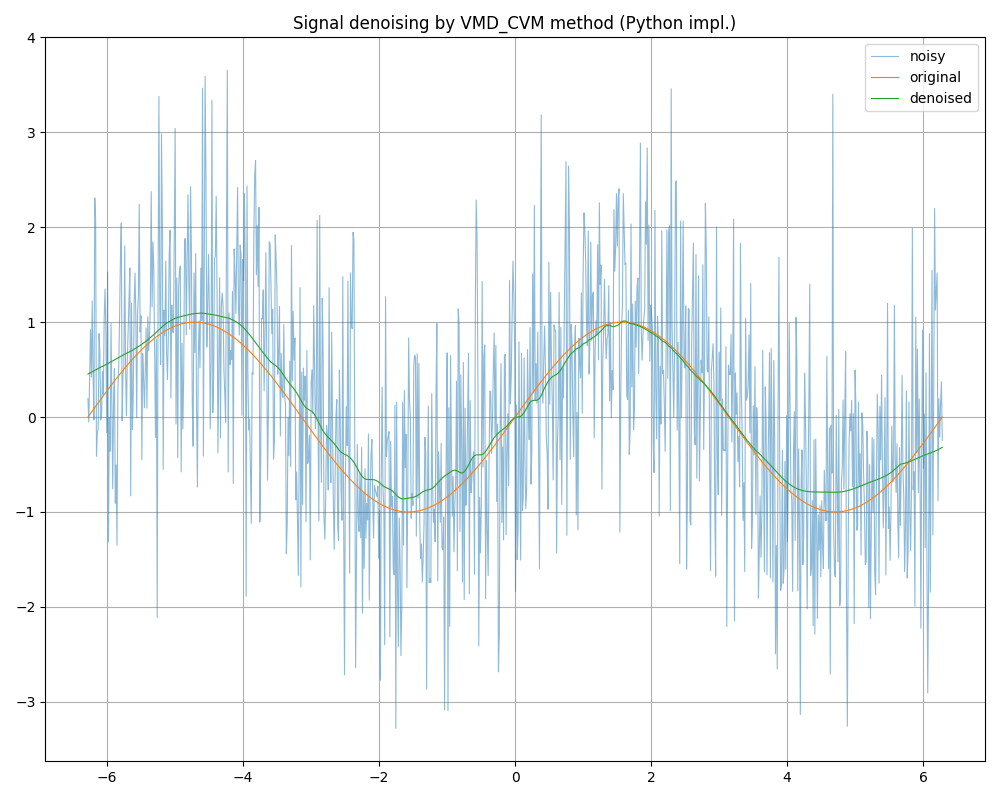
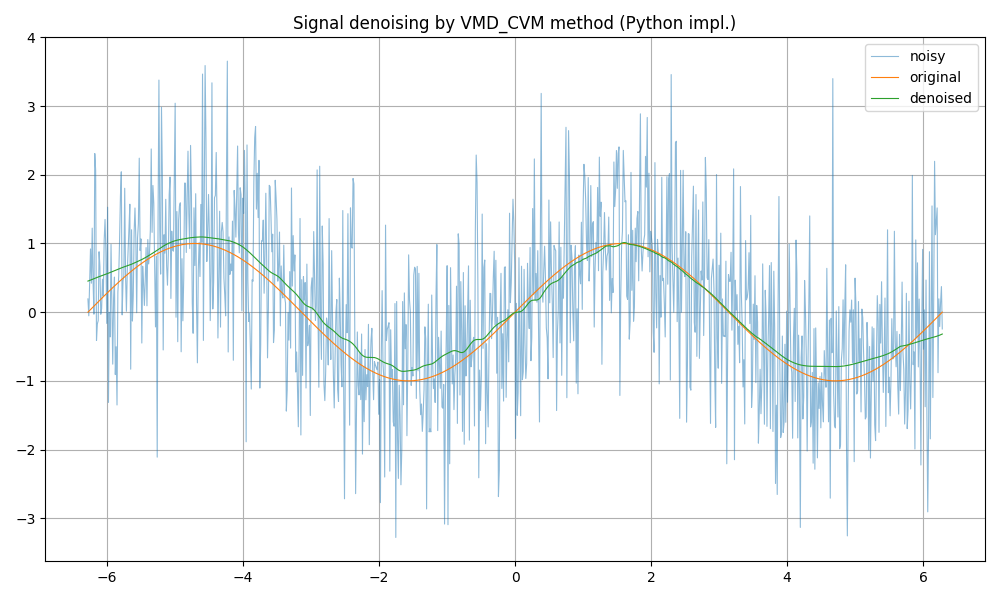
Slightly reduce hello_world image height

diff --git a/hello_world-vmd_cvm.py b/hello_world-vmd_cvm.py
@@ -53,7 +53,7 @@ if MODE == 'cython':
 denoised = pd.Series(denoised).rolling(window=100, min_periods=1, center=True).mean()
 
 # Plot noisy, original and denoised signals
-plt.subplots(1, figsize=(10,8))
+plt.subplots(1, figsize=(10,6))
 
 plt.plot(x, noisy,    linewidth=0.8, label='noisy', alpha=0.5)
 plt.plot(x, signal,   linewidth=0.8, label='original')
